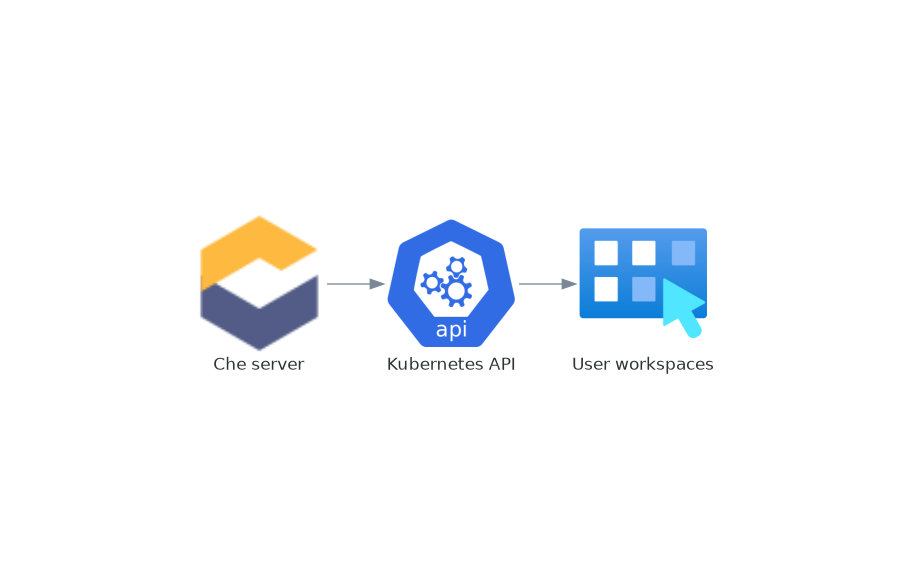
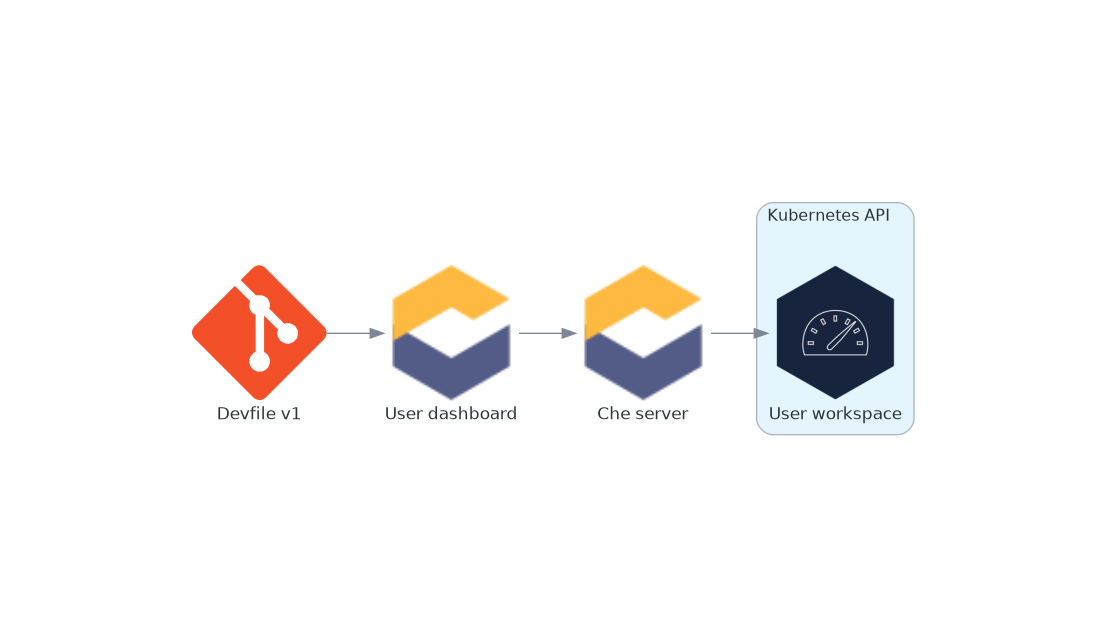
more suggestions

Changed region(s): [[0.155, 0.2998, 0.8372, 0.6896]]

diff --git a/tools/create_architecture_diagrams.py b/tools/create_architecture_diagrams.py
@@ -10,7 +10,6 @@
 
 from diagrams import *
 import diagrams
-from diagrams.azure.compute import Workspaces
 from diagrams.custom import Custom
 from diagrams.k8s.controlplane import APIServer
 from diagrams.k8s.rbac import User
@@ -33,45 +32,41 @@ def ArchitectureDiagrams(prod_short, project_context, orch_name):
         "overlap": "false",
         # "splines": "curved"
     }
-    # Use neato for more complex diagrams
-    graph_attr_neato = {
-        "bgcolor": "white",
-        "layout": "neato",
-        "overlap": "false",
-        "splines": "curved"
-    }
 
-    filename = file_path + 'architecture-with-che-server-operator'
+    filename = file_path + 'architecture-with-che-server-engine'
     with Diagram(filename=filename,
                  show=False,
                  direction="TB",
                  outformat="png",
                  edge_attr={"constraint": "false"},
-                 ):
-        controller = Custom(prod_short + ' server', prod_icon)
-        kubernetes = APIServer(orch_name + ' API')
-        workspace = Compute('User workspaces')
-        controller >> kubernetes >> workspace
+                 graph_attr=graph_attr):
+        devfile = Git('Devfile v1')
+        dashboard = Custom('User dashboard', prod_icon)
+        che_host = Custom(prod_short + ' server', prod_icon)
+        with Cluster(orch_name + ' API'):
+            workspace = Compute('User workspace')
+        devfile >> dashboard >> che_host >> workspace
 
     filename = file_path + 'interacting-with-devworkspace'
     with Diagram(filename=filename,
                  show=False,
                  direction="LR",
                  outformat="png",
-                 #  edge_attr={"constraint": "false"},
-                 ):
-        che_server_components = Custom(
-            prod_short + ' server components', prod_icon)
-        devworkspace_operator = APIServer('DevWorkspace')
-        workspace = Compute('User workspaces')
-        che_server_components >> devworkspace_operator >> workspace
+                 graph_attr=graph_attr):
+        devfile = Git('Devfile v2')
+        dashboard = Custom('User dashboard', prod_icon)
+        with Cluster(orch_name + ' API'):
+            devworkspace_operator = Compute('DevWorkspace')
+            workspace = Compute('User workspace')
+        devfile >> dashboard >> devworkspace_operator >> workspace
 
     filename = file_path + 'deployments-interacting-with-devworkspace'
     with Diagram(filename=filename,
                  show=False,
                  direction="TB",
                  outformat="png",
-                 graph_attr=graph_attr):
+                 graph_attr=graph_attr
+                 ):
         che_dashboard = Custom('User dashboard', icon_path=prod_icon)
         che_gateway = Traefik('Gateway')
         devfile_registries = SimpleStorageService('Devfile registries')
@@ -93,11 +88,11 @@ def ArchitectureDiagrams(prod_short, project_context, orch_name):
                  outformat="png",
                  graph_attr=graph_attr):
         user = User('User')
+        che_gateway = Traefik('Gateway')
         che_dashboard = Custom('User dashboard', icon_path=prod_icon)
         devfile_registries = SimpleStorageService('Devfile registry')
-        plugin_registry = SimpleStorageService('Plug-in registry')
-        che_gateway = Traefik('Gateway')
         che_host = Custom(prod_short + ' server', icon_path=prod_icon)
+        plugin_registry = SimpleStorageService('Plug-in registry')
         user_workspace = Compute('User workspaces')
         user >> che_gateway >> [
             che_dashboard, che_host, devfile_registries, plugin_registry, user_workspace]
@@ -169,19 +164,15 @@ def ArchitectureDiagrams(prod_short, project_context, orch_name):
                  show=False,
                  direction="TB",
                  outformat="png",
-                 #  edge_attr={"constraint": "false"},
                  graph_attr=graph_attr):
         che_gateway = Traefik('Gateway')
-        # devworkspace_operator = APIServer('DevWorkspace operator')
         git = Git('Git provider')
         container_registries = SimpleStorageService('Container registries')
         artifact_management = SimpleStorageService('Dependency provider')
 
         user = User('User')
         user_workspace = Compute('User workspaces')
-        # user_ide = Workspaces('User IDE')
         user >> che_gateway >> user_workspace
-        # devworkspace_operator >> user_workspace
         user_workspace >> [git, container_registries, artifact_management]
 
 
